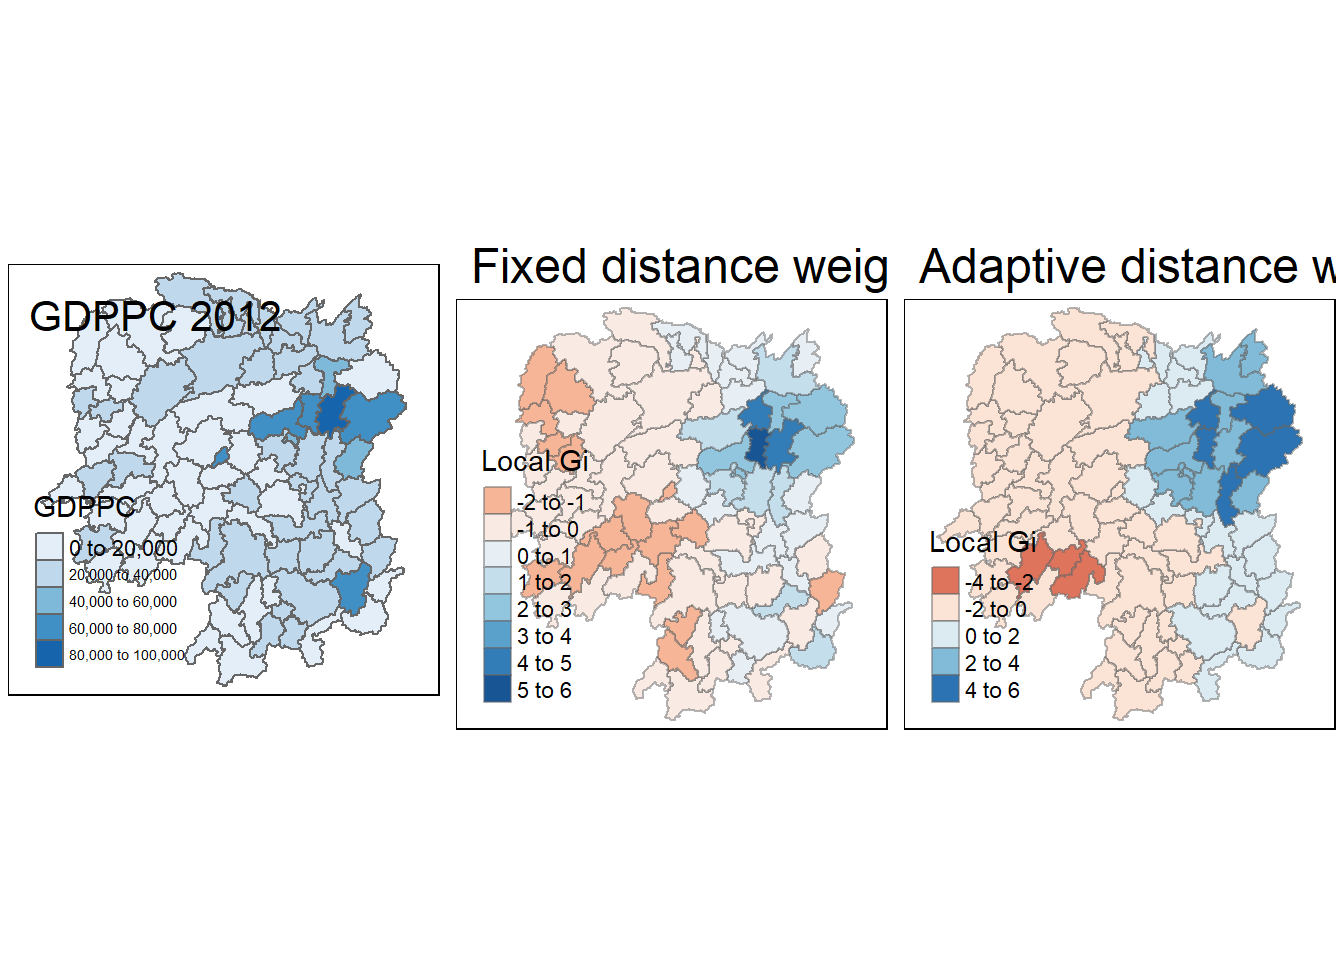
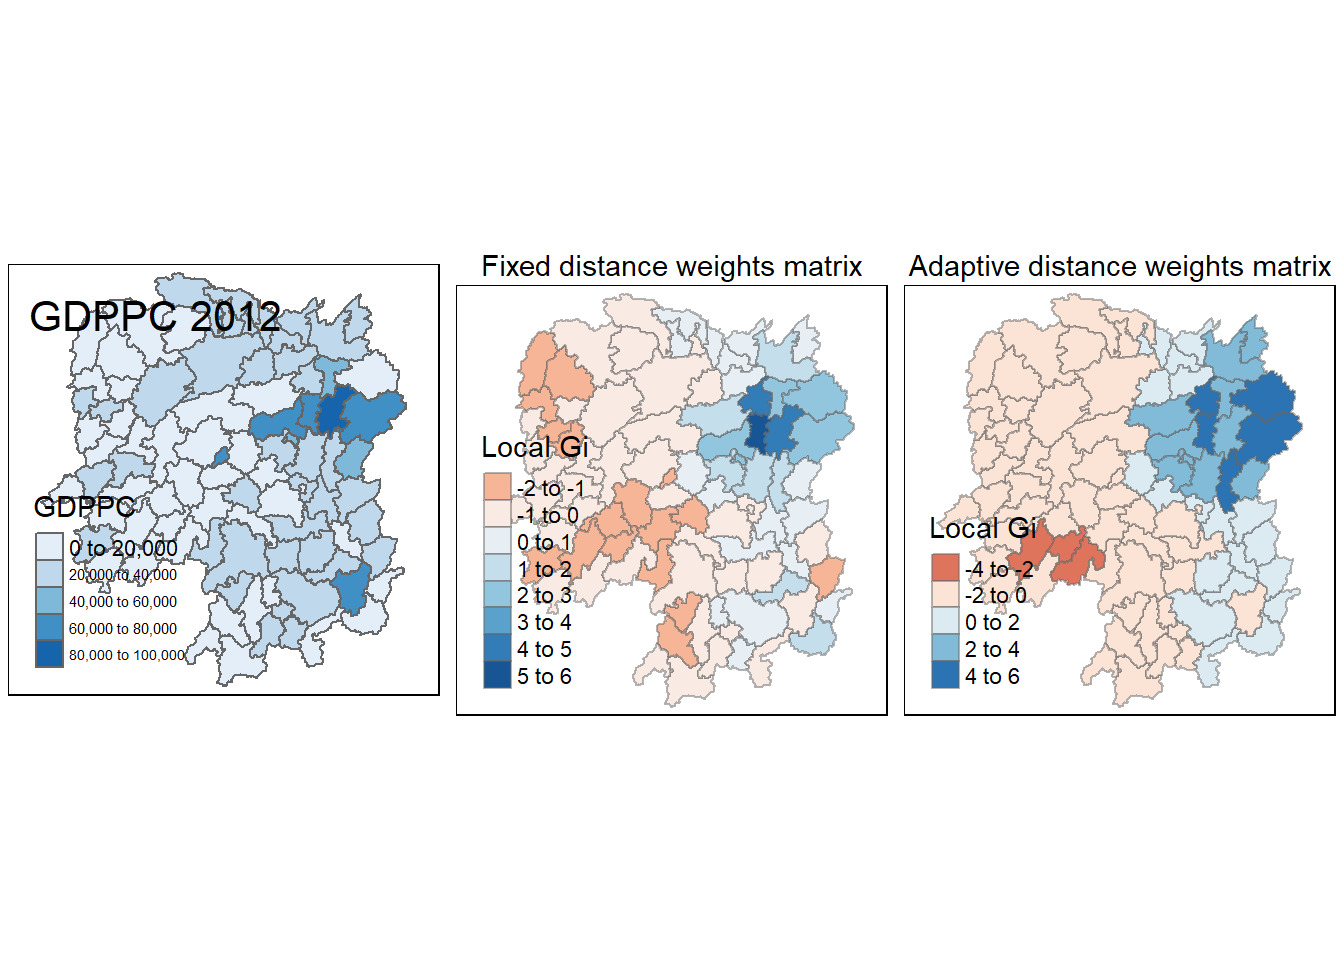
Commit 3rd version of Hands-on Exercise 2

Changed region(s): [[0.3438, 0.25, 1.0, 0.75]]

diff --git a/_site/Hands-on_Ex2/Hands-on_Ex2.html b/_site/Hands-on_Ex2/Hands-on_Ex2.html
@@ -1395,21 +1395,25 @@ attr(,"class")
 <span id="cb85-7"><a href="#cb85-7" aria-hidden="true" tabindex="-1"></a>          <span class="at">palette =</span> <span class="st">"RdBu"</span>,</span>
 <span id="cb85-8"><a href="#cb85-8" aria-hidden="true" tabindex="-1"></a>          <span class="at">title =</span> <span class="st">"Local Gi"</span>) <span class="sc">+</span></span>
 <span id="cb85-9"><a href="#cb85-9" aria-hidden="true" tabindex="-1"></a>  <span class="fu">tm_borders</span>(<span class="at">alpha =</span> <span class="fl">0.5</span>) <span class="sc">+</span></span>
-<span id="cb85-10"><a href="#cb85-10" aria-hidden="true" tabindex="-1"></a>  <span class="fu">tm_layout</span>(<span class="at">main.title =</span> <span class="st">"Fixed distance weights matrix"</span>)</span>
-<span id="cb85-11"><a href="#cb85-11" aria-hidden="true" tabindex="-1"></a></span>
-<span id="cb85-12"><a href="#cb85-12" aria-hidden="true" tabindex="-1"></a>Gimap.adaptive <span class="ot">&lt;-</span> <span class="fu">tm_shape</span>(hunan.gi) <span class="sc">+</span> </span>
-<span id="cb85-13"><a href="#cb85-13" aria-hidden="true" tabindex="-1"></a>  <span class="fu">tm_fill</span>(<span class="at">col =</span> <span class="st">"gstat_adaptive"</span>,</span>
-<span id="cb85-14"><a href="#cb85-14" aria-hidden="true" tabindex="-1"></a>          <span class="at">style =</span> <span class="st">"pretty"</span>,</span>
-<span id="cb85-15"><a href="#cb85-15" aria-hidden="true" tabindex="-1"></a>          <span class="at">palette =</span> <span class="st">"RdBu"</span>,</span>
-<span id="cb85-16"><a href="#cb85-16" aria-hidden="true" tabindex="-1"></a>          <span class="at">title =</span> <span class="st">"Local Gi"</span>) <span class="sc">+</span></span>
-<span id="cb85-17"><a href="#cb85-17" aria-hidden="true" tabindex="-1"></a>  <span class="fu">tm_borders</span>(<span class="at">alpha =</span> <span class="fl">0.5</span>) <span class="sc">+</span></span>
-<span id="cb85-18"><a href="#cb85-18" aria-hidden="true" tabindex="-1"></a>  <span class="fu">tm_layout</span>(<span class="at">main.title =</span> <span class="st">"Adaptive distance weights matrix"</span>)</span>
-<span id="cb85-19"><a href="#cb85-19" aria-hidden="true" tabindex="-1"></a></span>
-<span id="cb85-20"><a href="#cb85-20" aria-hidden="true" tabindex="-1"></a><span class="fu">tmap_arrange</span>(gdppc,</span>
-<span id="cb85-21"><a href="#cb85-21" aria-hidden="true" tabindex="-1"></a>           Gimap.fixed,</span>
-<span id="cb85-22"><a href="#cb85-22" aria-hidden="true" tabindex="-1"></a>           Gimap.adaptive,</span>
-<span id="cb85-23"><a href="#cb85-23" aria-hidden="true" tabindex="-1"></a>           <span class="at">asp =</span> <span class="dv">1</span>,</span>
-<span id="cb85-24"><a href="#cb85-24" aria-hidden="true" tabindex="-1"></a>           <span class="at">ncol =</span> <span class="dv">3</span>)</span></code><button title="Copy to Clipboard" class="code-copy-button"><i class="bi"></i></button></pre></div>
+<span id="cb85-10"><a href="#cb85-10" aria-hidden="true" tabindex="-1"></a>  <span class="fu">tm_layout</span>(<span class="at">main.title =</span> <span class="st">"Fixed distance weights matrix"</span>,</span>
+<span id="cb85-11"><a href="#cb85-11" aria-hidden="true" tabindex="-1"></a>            <span class="at">main.title.size =</span> <span class="fl">0.9</span>,</span>
+<span id="cb85-12"><a href="#cb85-12" aria-hidden="true" tabindex="-1"></a>            <span class="at">main.title.position =</span> <span class="st">"center"</span>)</span>
+<span id="cb85-13"><a href="#cb85-13" aria-hidden="true" tabindex="-1"></a></span>
+<span id="cb85-14"><a href="#cb85-14" aria-hidden="true" tabindex="-1"></a>Gimap.adaptive <span class="ot">&lt;-</span> <span class="fu">tm_shape</span>(hunan.gi) <span class="sc">+</span> </span>
+<span id="cb85-15"><a href="#cb85-15" aria-hidden="true" tabindex="-1"></a>  <span class="fu">tm_fill</span>(<span class="at">col =</span> <span class="st">"gstat_adaptive"</span>,</span>
+<span id="cb85-16"><a href="#cb85-16" aria-hidden="true" tabindex="-1"></a>          <span class="at">style =</span> <span class="st">"pretty"</span>,</span>
+<span id="cb85-17"><a href="#cb85-17" aria-hidden="true" tabindex="-1"></a>          <span class="at">palette =</span> <span class="st">"RdBu"</span>,</span>
+<span id="cb85-18"><a href="#cb85-18" aria-hidden="true" tabindex="-1"></a>          <span class="at">title =</span> <span class="st">"Local Gi"</span>) <span class="sc">+</span></span>
+<span id="cb85-19"><a href="#cb85-19" aria-hidden="true" tabindex="-1"></a>  <span class="fu">tm_borders</span>(<span class="at">alpha =</span> <span class="fl">0.5</span>) <span class="sc">+</span></span>
+<span id="cb85-20"><a href="#cb85-20" aria-hidden="true" tabindex="-1"></a>  <span class="fu">tm_layout</span>(<span class="at">main.title =</span> <span class="st">"Adaptive distance weights matrix"</span>,</span>
+<span id="cb85-21"><a href="#cb85-21" aria-hidden="true" tabindex="-1"></a>            <span class="at">main.title.size =</span> <span class="fl">0.9</span>,</span>
+<span id="cb85-22"><a href="#cb85-22" aria-hidden="true" tabindex="-1"></a>            <span class="at">main.title.position =</span> <span class="st">"center"</span>)</span>
+<span id="cb85-23"><a href="#cb85-23" aria-hidden="true" tabindex="-1"></a></span>
+<span id="cb85-24"><a href="#cb85-24" aria-hidden="true" tabindex="-1"></a><span class="fu">tmap_arrange</span>(gdppc,</span>
+<span id="cb85-25"><a href="#cb85-25" aria-hidden="true" tabindex="-1"></a>           Gimap.fixed,</span>
+<span id="cb85-26"><a href="#cb85-26" aria-hidden="true" tabindex="-1"></a>           Gimap.adaptive,</span>
+<span id="cb85-27"><a href="#cb85-27" aria-hidden="true" tabindex="-1"></a>           <span class="at">asp =</span> <span class="dv">1</span>,</span>
+<span id="cb85-28"><a href="#cb85-28" aria-hidden="true" tabindex="-1"></a>           <span class="at">ncol =</span> <span class="dv">3</span>)</span></code><button title="Copy to Clipboard" class="code-copy-button"><i class="bi"></i></button></pre></div>
 <div class="cell-output cell-output-stderr">
 <pre><code>Some legend labels were too wide. These labels have been resized to 0.47, 0.47, 0.47, 0.43. Increase legend.width (argument of tm_layout) to make the legend wider and therefore the labels larger.</code></pre>
 </div>
